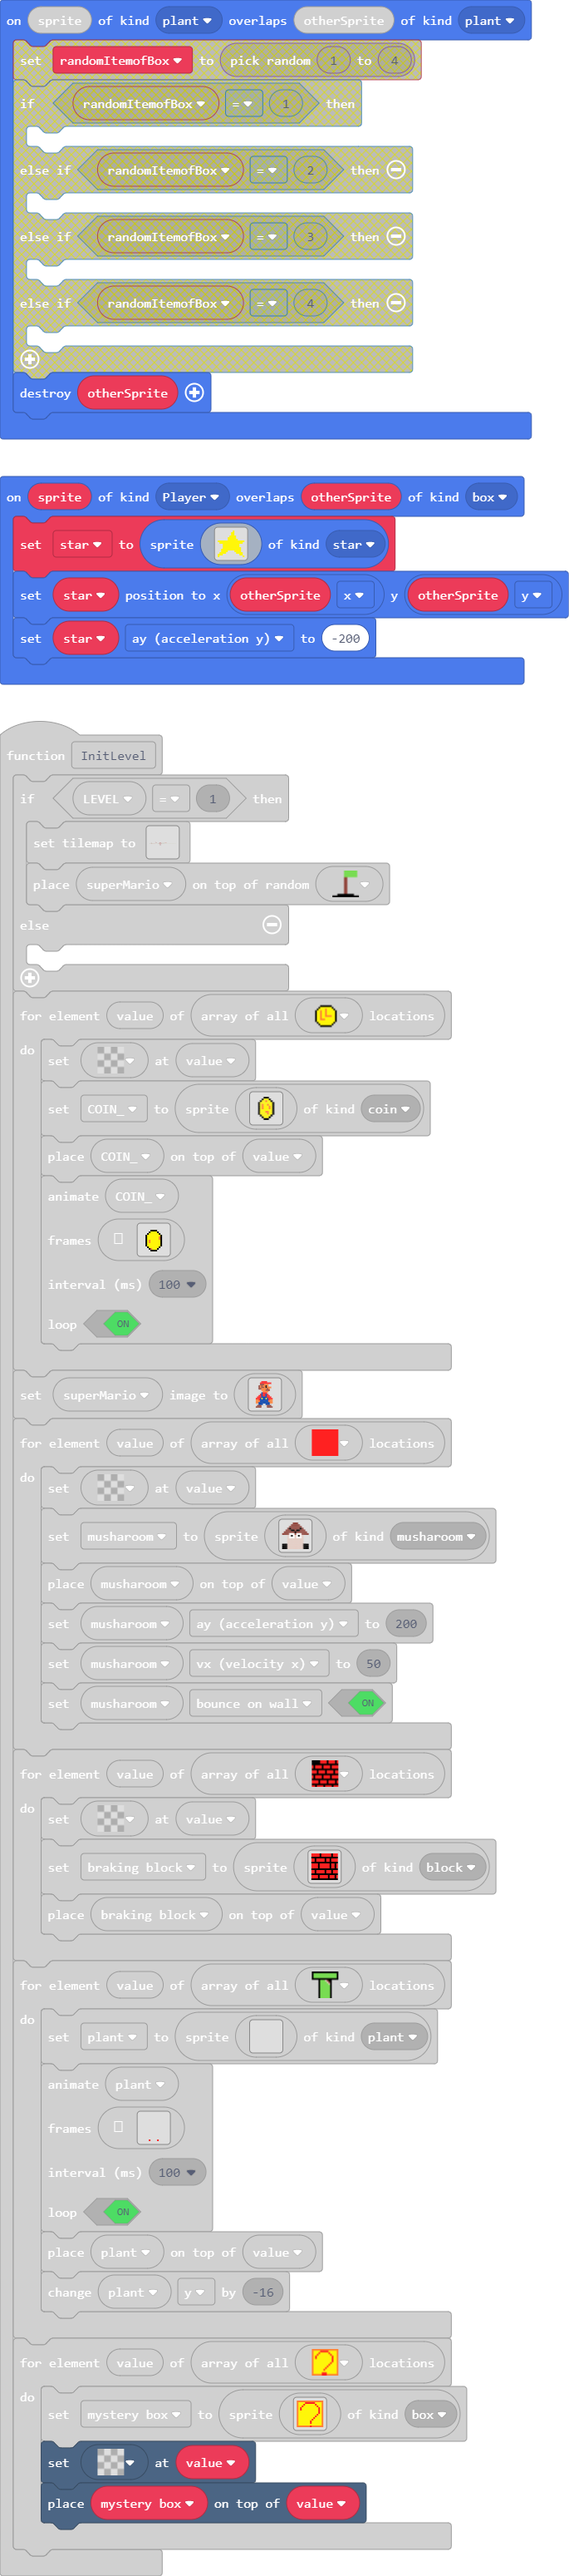
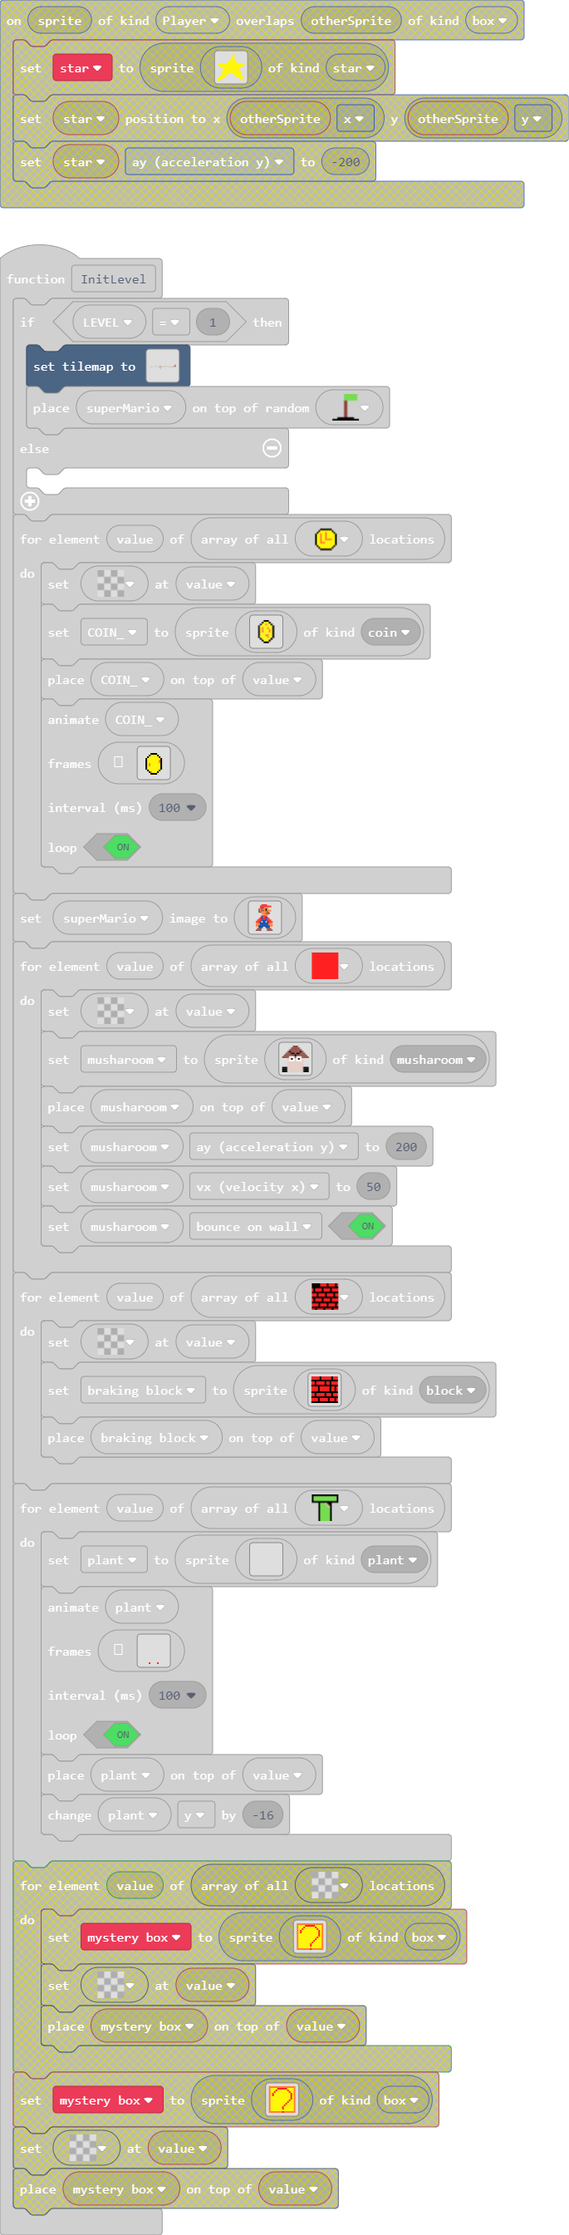
Update main.blocks, main.ts

diff --git a/main.ts b/main.ts
@@ -159,25 +159,6 @@ f f f f f f f f f f f f f f f f
 f f f f f f f f f f f f f f 1 1 
 f f f f f f f f f f f f f f f 1 
 `
-    //% blockIdentity=images._tile
-    export const tile8 = img`
-4 4 4 4 4 4 4 4 4 4 4 4 4 4 4 4 
-4 5 5 5 5 2 2 2 2 2 5 5 5 5 5 4 
-4 5 5 5 2 5 5 5 5 5 2 5 5 5 5 4 
-4 5 5 2 5 5 5 5 5 5 5 2 5 5 5 4 
-4 5 2 5 5 5 5 5 5 5 5 5 2 5 5 4 
-4 5 2 5 5 5 5 5 5 5 5 5 2 5 5 4 
-4 5 5 5 5 5 5 5 5 5 5 5 2 5 5 4 
-4 5 5 5 5 5 5 5 5 5 5 5 2 5 5 4 
-4 5 5 5 5 5 5 5 5 5 5 2 5 5 5 4 
-4 5 5 5 5 5 5 5 5 5 2 5 5 5 5 4 
-4 5 5 5 5 5 5 5 5 2 5 5 5 5 5 4 
-4 5 5 5 5 5 5 5 2 5 5 5 5 5 5 4 
-4 5 5 5 5 5 5 2 5 5 5 5 5 5 5 4 
-4 5 5 5 5 5 5 5 5 5 5 5 5 5 5 4 
-4 5 5 5 5 5 2 2 2 5 5 5 5 5 5 4 
-4 4 4 4 4 4 2 2 2 4 4 4 4 4 4 4 
-`
 }
 sprites.onOverlap(SpriteKind.plant, SpriteKind.plant, function (sprite, otherSprite) {
     otherSprite.destroy()
@@ -217,28 +198,6 @@ controller.A.onEvent(ControllerButtonEvent.Pressed, function () {
         superMario.vy = -115
     }
 })
-sprites.onOverlap(SpriteKind.Player, SpriteKind.box, function (sprite, otherSprite) {
-    star = sprites.create(img`
-. . . . . . . . . 5 . . . . . . 
-. . . . . . . . 5 5 . . . . . . 
-. . . . . . . . 5 5 . . . . . . 
-. . . . . . . 5 5 5 5 . . . . . 
-. . . . . . 5 5 5 5 5 . . . . . 
-. . . . . . 5 5 5 5 5 5 . . . . 
-5 5 5 5 5 5 5 5 5 5 5 5 5 5 5 5 
-. 5 5 5 5 5 5 5 5 5 5 5 5 5 5 . 
-. . . 5 5 5 5 5 5 5 5 5 5 . . . 
-. . . 5 5 5 5 5 5 5 5 5 5 . . . 
-. . . 5 5 5 5 5 5 5 5 5 5 5 . . 
-. . 5 5 5 5 5 5 5 5 5 5 5 5 . . 
-. . 5 5 5 5 . . . . 5 5 5 5 . . 
-. 5 5 5 5 . . . . . . 5 5 5 5 . 
-5 5 5 . . . . . . . . . . 5 5 . 
-5 . . . . . . . . . . . . . . 5 
-`, SpriteKind.star)
-    star.setPosition(otherSprite.x, otherSprite.y)
-    star.ay = -200
-})
 sprites.onOverlap(SpriteKind.Player, SpriteKind.block, function (sprite, otherSprite) {
     animation.runMovementAnimation(
     otherSprite,
@@ -263,7 +222,7 @@ scene.onOverlapTile(SpriteKind.Player, myTiles.tile7, function (sprite, location
 function InitLevel () {
     if (LEVEL == 1) {
         tiles.setTilemap(tiles.createTilemap(
-            hex`640017000000000000000000000000000000000000000000000000000000000000000000000000000000000000000000000000000000000000000000000000000000000000000000000000000000000000000000000000000000000000000000000000000000000000000000000000000000000000000000000000000000000000000000000000000000000000000000000000000000000000000000000000000000000000000000000000000000000000000000000000000000000000000000000000000000000000000000000000000000000000000000000000000000000000000000000000000000000000000000000000000000000000000000000000000000000000000000000000000000000000000000000000000000000000000000000000000000000000000000000000000000000000000000000000000000000000000000000000000000000000000000000000000000000000000000000000000000000000000000000000000000000000000000000000000000000000000000000000000000000000000000000000000000000000000000000000000000000000000000000000000000000000000000000000000000000000000000000000000000000000000000000000000000000000000000000000000000000000000000000000000000000000000000000000000000000000000000000000000000000000000000000000000000000000000000000000000000000000000000000000000000000000000000000000000000000000000000000000000000000000000000000000000000000000000000000000000000000000000000000000000000000000000000000000000000000000000000000000000000000000000000000000000000000000000000000000000000000000000000000000000000000000000000000000000000000000000000000000000000000000000000000000000000000000000000000000000000000000000000000000000000000000000000000000000000000000000000000000000000000000000000000000000000000000000000000000000000000000000000000000000000000000000000000000000000000000000000000000000000000000000000000000000000000000000000000000000000000000000000000000000000000000000000000000000000000000000000000000000000000000000000000000000000000000000000000000000000000000000000000000000000000000000000000000000000000000000000000000000000000000000000000000000000000000000000000000000000000000000000000000000000000000000000000000000000000000000000000000000000000000000000000000000000000000000000000000000000000000000000000000000000000000000000000000000000000000000000000000000000000000000000000000000000000000000000000000000000000000000000000000000000000000000000000000000000000000000000000000000000000000000000000000000000000000000000020000000000000000000000000000000000000000000000000000000000000000000000000000000000000000000000000000000000000000000000000000000000000000000000000000000000000000000000000000000000000000000000000000000200000000000000000000000000000000000000000000000000000000000000000000000000000000000000000000000000000000000000000000000000000000000000000000000000000000000000000004000000000000000000000000000000000002000000000000000000000000000002000002000000000000000000000000000000000000000000000000000000000000000000000000000000000000000000000000000000000000000000000000000000000000000000000000000000000000000000060606060000000000000000000002020000020200000000000400000400000400000202020902020000000000000000000000000000000000000000000000000000000000000000000000000000000000000200040000000000000000000000000000000000000000000000000000000002020200000202020000000000000000000000000000000000000000000000000000000000000000000000000000000000000000000000000000000000000003000000000002020200040000020000050000020000000000000000000000000700000002020202000002020202000000070000070000070000000000000000000000000000000000000000000000000000000000000000000000000000000000000000010101010101010101010101010101010101010101010101010101010101010101010101010101010000010101010101010101010101010101010101010101010101010101010101010101010101010101010101010101010101010101010101010101010000000000000000000000000000000000000000000000000000000000000000000000000000000200000200000000000000000000000000000000000000000000000000000000000000000000000000000000000000000000000000000000000000000000000000000000000000000000000000000000000000000000000000000000000000000000000002000002000000000000000000000000000000000000000000000000000000000000000000000000000000000000000000000000000000000000000000000000000000000000000000000000000000000000000000000000000000000000000000000000020000020000000000000000000000000000000000000000000000000000000000000000000000000000000000000000000000000000000000000000000000000000000000000000000000000000000000000000000000000000000000000000000000000200000200000000000000000000000000000000000000000000000000000000000000000000000000000000000000000000000000000000000000000000000000000000000000000000000000000000000000000000000000000000000000000000000002080802000000000000000000000000000000000000000000000000000000000000000000000000000000000000000000000000000000000000000000`,
+            hex`640017000000000000000000000000000000000000000000000000000000000000000000000000000000000000000000000000000000000000000000000000000000000000000000000000000000000000000000000000000000000000000000000000000000000000000000000000000000000000000000000000000000000000000000000000000000000000000000000000000000000000000000000000000000000000000000000000000000000000000000000000000000000000000000000000000000000000000000000000000000000000000000000000000000000000000000000000000000000000000000000000000000000000000000000000000000000000000000000000000000000000000000000000000000000000000000000000000000000000000000000000000000000000000000000000000000000000000000000000000000000000000000000000000000000000000000000000000000000000000000000000000000000000000000000000000000000000000000000000000000000000000000000000000000000000000000000000000000000000000000000000000000000000000000000000000000000000000000000000000000000000000000000000000000000000000000000000000000000000000000000000000000000000000000000000000000000000000000000000000000000000000000000000000000000000000000000000000000000000000000000000000000000000000000000000000000000000000000000000000000000000000000000000000000000000000000000000000000000000000000000000000000000000000000000000000000000000000000000000000000000000000000000000000000000000000000000000000000000000000000000000000000000000000000000000000000000000000000000000000000000000000000000000000000000000000000000000000000000000000000000000000000000000000000000000000000000000000000000000000000000000000000000000000000000000000000000000000000000000000000000000000000000000000000000000000000000000000000000000000000000000000000000000000000000000000000000000000000000000000000000000000000000000000000000000000000000000000000000000000000000000000000000000000000000000000000000000000000000000000000000202020000000000000000000000000000000000000000000000000000000000000000000000000000000000000000000000000000000000000000000000000000000000000000000000000000000000000000000000000000000000000000000000000202020200000000000000000000000000000000000000000000000000000000000000000000000000000000000000000000000000000000000000000000000000000000000000000000000000000000000000000000000000000000000000000000000202020202000000000000000000000000000000000000000000000000020000000000000000000000000000000000000000000000000000000000000000000000000000000000000000000000000000000000000000000000000000000000000000000202020202020000000000000000000000000000000000000000000000000200000000000000000000000000000000000000000000000000000000000000000000000000000000000000000000000000000000000000000000000000000000000000000202020202020200000000000004000000000000000000000000000000000002000000000000000000000000000002000002000000000000000000000000000000000000000000000000000000000000000400000000000000000000000000000000000202020202020202000000000000000000000000000000000000000000000000060606060000000000000000000002020000020200000000000400000400000400000202020202020000040000000000000004000000000000000400000000000000000202020202020202020000000000000200040000000000000000000000000000000000000000000000000000000002020200000202020000000000000000000000000000000000000000000000000000000000020000000007000004000004000000000202020202020202020203000000000002020200040000020000050000020000000000000000000000000700000002020202000002020202000000070000070000070000000000000000000007000002000500040204000500020505050505050502000202020202020202020202010101010101010101010101010101010101010101010101010101010101010101010101010101010000010101010101010101010101010101010101010101010101010101010101010101010101010101010101010101010101010101010101010101010000000000000000000000000000000000000000000000000000000000000000000000000000000200000200000000000000000000000000000000000000000000000000000000000000000000000000000000000000000000000000000000000000000000000000000000000000000000000000000000000000000000000000000000000000000000000002000002000000000000000000000000000000000000000000000000000000000000000000000000000000000000000000000000000000000000000000000000000000000000000000000000000000000000000000000000000000000000000000000000020000020000000000000000000000000000000000000000000000000000000000000000000000000000000000000000000000000000000000000000000000000000000000000000000000000000000000000000000000000000000000000000000000000200000200000000000000000000000000000000000000000000000000000000000000000000000000000000000000000000000000000000000000000000000000000000000000000000000000000000000000000000000000000000000000000000000002080802000000000000000000000000000000000000000000000000000000000000000000000000000000000000000000000000000000000000000000`,
             img`
 . . . . . . . . . . . . . . . . . . . . . . . . . . . . . . . . . . . . . . . . . . . . . . . . . . . . . . . . . . . . . . . . . . . . . . . . . . . . . . . . . . . . . . . . . . . . . . . . . . . . 
 . . . . . . . . . . . . . . . . . . . . . . . . . . . . . . . . . . . . . . . . . . . . . . . . . . . . . . . . . . . . . . . . . . . . . . . . . . . . . . . . . . . . . . . . . . . . . . . . . . . . 
@@ -273,15 +232,15 @@ function InitLevel () {
 . . . . . . . . . . . . . . . . . . . . . . . . . . . . . . . . . . . . . . . . . . . . . . . . . . . . . . . . . . . . . . . . . . . . . . . . . . . . . . . . . . . . . . . . . . . . . . . . . . . . 
 . . . . . . . . . . . . . . . . . . . . . . . . . . . . . . . . . . . . . . . . . . . . . . . . . . . . . . . . . . . . . . . . . . . . . . . . . . . . . . . . . . . . . . . . . . . . . . . . . . . . 
 . . . . . . . . . . . . . . . . . . . . . . . . . . . . . . . . . . . . . . . . . . . . . . . . . . . . . . . . . . . . . . . . . . . . . . . . . . . . . . . . . . . . . . . . . . . . . . . . . . . . 
-. . . . . . . . . . . . . . . . . . . . . . . . . . . . . . . . . . . . . . . . . . . . . . . . . . . . . . . . . . . . . . . . . . . . . . . . . . . . . . . . . . . . . . . . . . . . . . . . . . . . 
-. . . . . . . . . . . . . . . . . . . . . . . . . . . . . . . . . . . . . . . . . . . . . . . . . . . . . . . . . . . . . . . . . . . . . . . . . . . . . . . . . . . . . . . . . . . . . . . . . . . . 
-. . . . . . . . . . . . . . . . . . . . . . . . . . . . . . . . . . . . . . . . . . . . . . . . . . . . . . . . . . . . . . . . . . . . . . . . . . . . . . . . . . . . . . . . . . . . . . . . . . . . 
-. . . . . . . . . . . . . . . . . . . . . . . . 2 . . . . . . . . . . . . . . . . . . . . . . . . . . . . . . . . . . . . . . . . . . . . . . . . . . . . . . . . . . . . . . . . . . . . . . . . . . . 
-. . . . . . . . . . . . . . . . . . . . . . . . 2 . . . . . . . . . . . . . . . . . . . . . . . . . . . . . . . . . . . . . . . . . . . . . . . . . . . . . . . . . . . . . . . . . . . . . . . . . . . 
-. . . . . . . . . . . . . . . . . . . . . . . . 2 . . . . . . . . . . . . . . 2 . . 2 . . . . . . . . . . . . . . . . . . . . . . . . . . . . . . . . . . . . . . . . . . . . . . . . . . . . . . . . . 
-. . . . . . . . . . . . . . . . . . . . . . . . . . . . . . . . . . . . . . 2 2 . . 2 2 . . . . . . . . . . . . . . 2 2 2 2 2 2 . . . . . . . . . . . . . . . . . . . . . . . . . . . . . . . . . . . . 
-. . . . . . 2 . . . . . . . . . . . . . . . . . . . . . . . . . . . . . . 2 2 2 . . 2 2 2 . . . . . . . . . . . . . . . . . . . . . . . . . . . . . . . . . . . . . . . . . . . . . . . . . . . . . . . 
-. . . . . . 2 2 2 . . . . 2 . . . . . 2 . . . . . . . . . . . . 2 . . . 2 2 2 2 . . 2 2 2 2 . . . 2 . . 2 . . 2 . . . . . . . . . . . . . . . . . . . . . . . . . . . . . . . . . . . . . . . . . . . . 
+. . . . . . . . . . . . . . . . . . . . . . . . . . . . . . . . . . . . . . . . . . . . . . . . . . . . . . . . . . . . . . . . . . . . . . . . . . . . . . . . . . . . . . . . . . . . . . . . . 2 2 2 
+. . . . . . . . . . . . . . . . . . . . . . . . . . . . . . . . . . . . . . . . . . . . . . . . . . . . . . . . . . . . . . . . . . . . . . . . . . . . . . . . . . . . . . . . . . . . . . . . 2 2 2 2 
+. . . . . . . . . . . . . . . . . . . . . . . . . . . . . . . . . . . . . . . . . . . . . . . . . . . . . . . . . . . . . . . . . . . . . . . . . . . . . . . . . . . . . . . . . . . . . . . 2 2 2 2 2 
+. . . . . . . . . . . . . . . . . . . . . . . . 2 . . . . . . . . . . . . . . . . . . . . . . . . . . . . . . . . . . . . . . . . . . . . . . . . . . . . . . . . . . . . . . . . . . . . . 2 2 2 2 2 2 
+. . . . . . . . . . . . . . . . . . . . . . . . 2 . . . . . . . . . . . . . . . . . . . . . . . . . . . . . . . . . . . . . . . . . . . . . . . . . . . . . . . . . . . . . . . . . . . . 2 2 2 2 2 2 2 
+. . . . . . . . . . . . . . . . . . . . . . . . 2 . . . . . . . . . . . . . . 2 . . 2 . . . . . . . . . . . . . . . . . . . . . . . . . . . . . . . . . . . . . . . . . . . . . . . . . 2 2 2 2 2 2 2 2 
+. . . . . . . . . . . . . . . . . . . . . . . . . . . . . . . . . . . . . . 2 2 . . 2 2 . . . . . . . . . . . . . . 2 2 2 2 2 2 . . . . . . . . . . . . . . . . . . . . . . . . . . . 2 2 2 2 2 2 2 2 2 
+. . . . . . 2 . . . . . . . . . . . . . . . . . . . . . . . . . . . . . . 2 2 2 . . 2 2 2 . . . . . . . . . . . . . . . . . . . . . . . . . . . . . 2 . . . . 2 . . . . . . . . . . 2 2 2 2 2 2 2 2 2 2 
+. . . . . . 2 2 2 . . . . 2 . . . . . 2 . . . . . . . . . . . . 2 . . . 2 2 2 2 . . 2 2 2 2 . . . 2 . . 2 . . 2 . . . . . . . . . . 2 . . 2 . . . . 2 . . . . 2 . . . . . . . 2 . 2 2 2 2 2 2 2 2 2 2 2 
 2 2 2 2 2 2 2 2 2 2 2 2 2 2 2 2 2 2 2 2 2 2 2 2 2 2 2 2 2 2 2 2 2 2 2 2 2 2 2 2 . . 2 2 2 2 2 2 2 2 2 2 2 2 2 2 2 2 2 2 2 2 2 2 2 2 2 2 2 2 2 2 2 2 2 2 2 2 2 2 2 2 2 2 2 2 2 2 2 2 2 2 2 2 2 2 2 2 2 2 
 . . . . . . . . . . . . . . . . . . . . . . . . . . . . . . . . . . . . . . . 2 . . 2 . . . . . . . . . . . . . . . . . . . . . . . . . . . . . . . . . . . . . . . . . . . . . . . . . . . . . . . . . 
 . . . . . . . . . . . . . . . . . . . . . . . . . . . . . . . . . . . . . . . 2 . . 2 . . . . . . . . . . . . . . . . . . . . . . . . . . . . . . . . . . . . . . . . . . . . . . . . . . . . . . . . . 
@@ -289,7 +248,7 @@ function InitLevel () {
 . . . . . . . . . . . . . . . . . . . . . . . . . . . . . . . . . . . . . . . 2 . . 2 . . . . . . . . . . . . . . . . . . . . . . . . . . . . . . . . . . . . . . . . . . . . . . . . . . . . . . . . . 
 . . . . . . . . . . . . . . . . . . . . . . . . . . . . . . . . . . . . . . . 2 . . 2 . . . . . . . . . . . . . . . . . . . . . . . . . . . . . . . . . . . . . . . . . . . . . . . . . . . . . . . . . 
 `,
-            [myTiles.tile0,sprites.castle.tilePath2,myTiles.tile1,myTiles.tile2,myTiles.tile3,myTiles.tile4,myTiles.tile5,myTiles.tile6,myTiles.tile7,myTiles.tile8],
+            [myTiles.tile0,sprites.castle.tilePath2,myTiles.tile1,myTiles.tile2,myTiles.tile3,myTiles.tile4,myTiles.tile5,myTiles.tile6,myTiles.tile7],
             TileScale.Sixteen
         ))
         tiles.placeOnRandomTile(superMario, myTiles.tile2)
@@ -1353,39 +1312,15 @@ f f f f f f f f f f f f f f f f
         tiles.placeOnTile(plant, value)
         plant.y += -16
     }
-    for (let value of tiles.getTilesByType(myTiles.tile8)) {
-        mystery_box = sprites.create(img`
-4 4 4 4 4 4 4 4 4 4 4 4 4 4 4 4 
-4 5 5 5 5 2 2 2 2 2 2 5 5 5 5 4 
-4 5 5 5 2 5 5 5 5 5 5 2 5 5 5 4 
-4 5 5 2 5 5 5 5 5 5 5 5 2 5 5 4 
-4 5 2 5 5 5 5 5 5 5 5 5 5 2 5 4 
-4 5 2 5 5 5 5 5 5 5 5 5 5 2 5 4 
-4 5 5 5 5 5 5 5 5 5 5 5 5 2 5 4 
-4 5 5 5 5 5 5 5 5 5 5 5 5 2 5 4 
-4 5 5 5 5 5 5 5 5 5 5 5 2 5 5 4 
-4 5 5 5 5 5 5 5 5 5 5 2 5 5 5 4 
-4 5 5 5 5 5 5 5 5 5 2 5 5 5 5 4 
-4 5 5 5 5 5 5 5 5 2 5 5 5 5 5 4 
-4 5 5 5 5 5 5 5 2 5 5 5 5 5 5 4 
-4 5 5 5 5 5 5 5 2 5 5 5 5 5 5 4 
-4 5 5 5 5 5 5 5 5 5 5 5 5 5 5 4 
-4 4 4 4 4 4 4 4 2 4 4 4 4 4 4 4 
-`, SpriteKind.box)
-        tiles.setTileAt(value, myTiles.tile0)
-        tiles.placeOnTile(mystery_box, value)
-    }
 }
 sprites.onOverlap(SpriteKind.Player, SpriteKind.plant, function (sprite, otherSprite) {
     marioDie()
     otherSprite.destroy()
 })
-let mystery_box: Sprite = null
 let plant: Sprite = null
 let braking_block: Sprite = null
 let musharoom: Sprite = null
 let COIN_: Sprite = null
-let star: Sprite = null
 let LEVEL = 0
 let superMario: Sprite = null
 let randomItemofBox = 0
